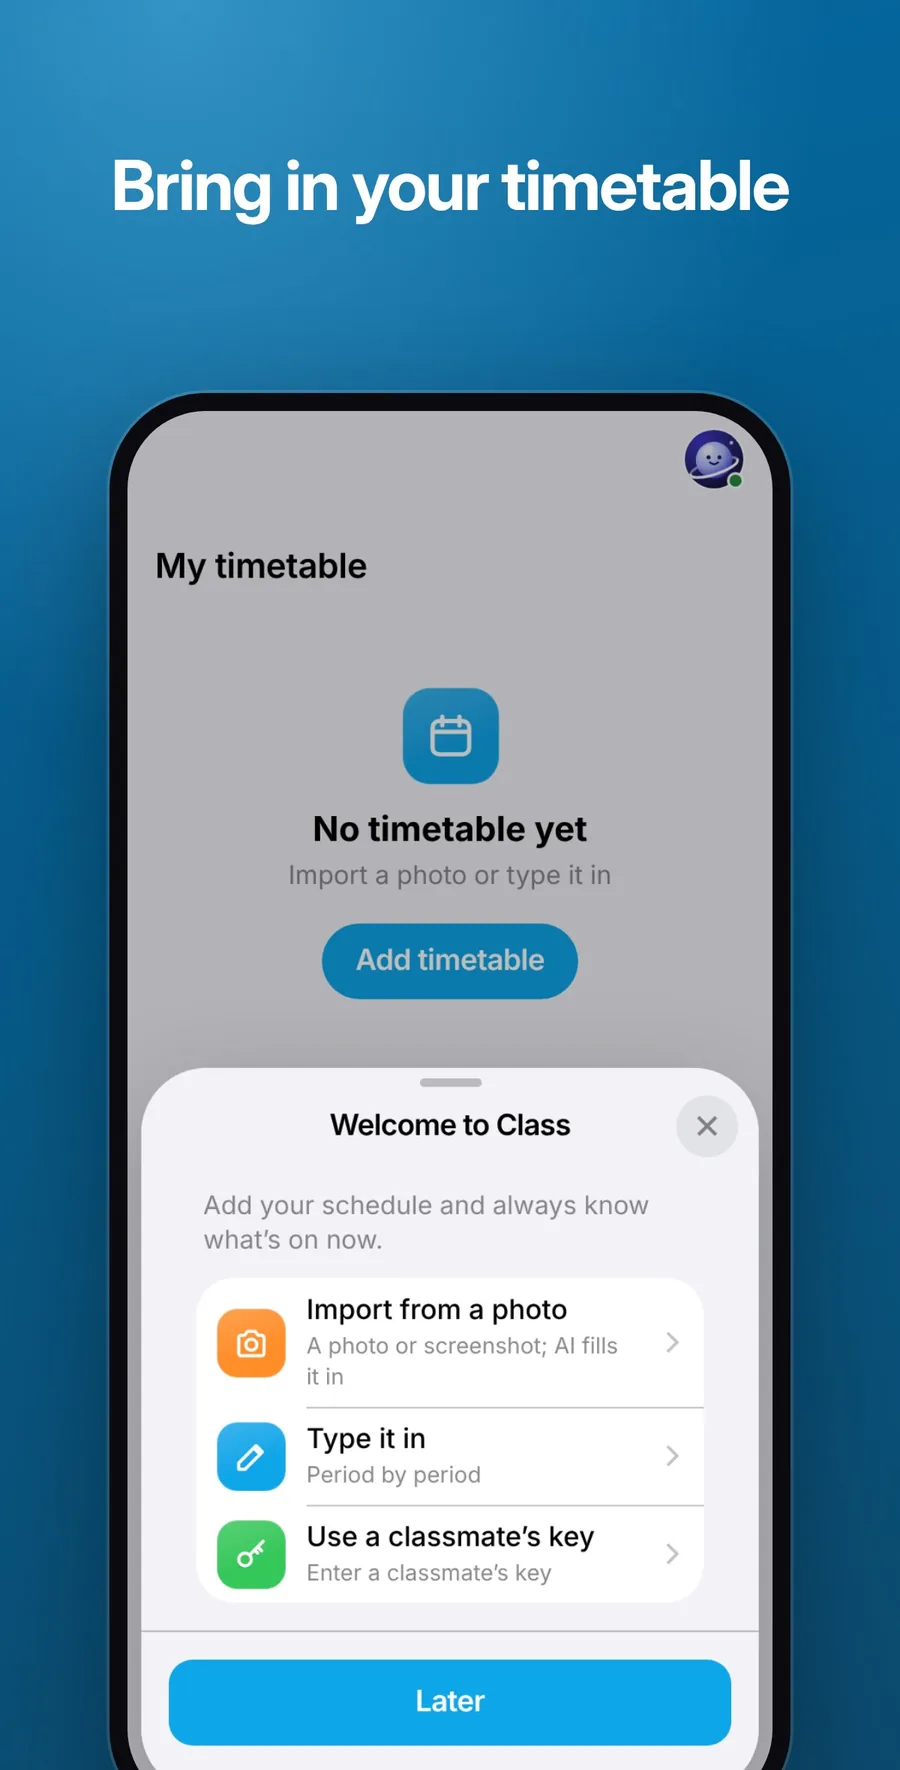
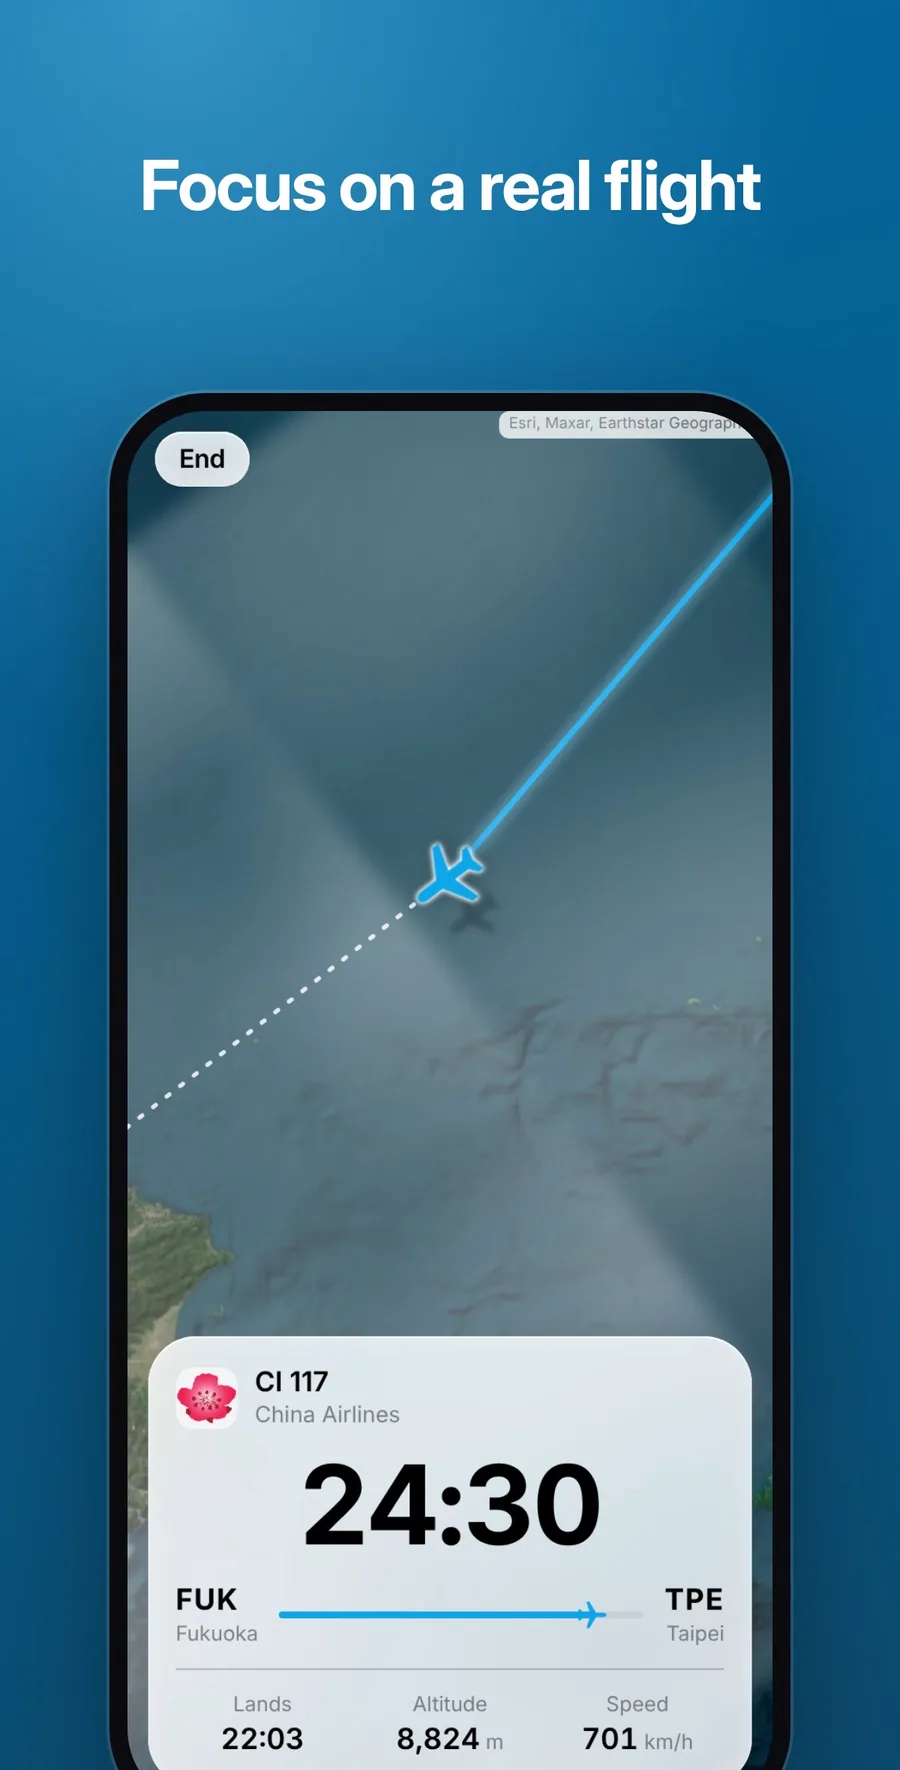
README: 專注飛行, the focus timer on a real plane, as a feature and screenshot 5 (Focus on a real flight, in place of the welcome sheet); every screen either way up
Claude-Session: https://claude.ai/code/session_01DckgWPaY9FmezbgW5QNwpK

diff --git a/README.md b/README.md
@@ -13,7 +13,7 @@
   <img alt="JavaScript" src="https://img.shields.io/badge/JavaScript-ES_modules-F7DF1E?logo=javascript&logoColor=000"> <img alt="Vite" src="https://img.shields.io/badge/Vite-build-646CFF?logo=vite&logoColor=fff"> <img alt="PWA" src="https://img.shields.io/badge/PWA-works_offline-5A0FC8?logo=pwa&logoColor=fff"> <img alt="Cloudflare" src="https://img.shields.io/badge/Cloudflare-Workers-F38020?logo=cloudflare&logoColor=fff"> <img alt="Tests" src="https://img.shields.io/badge/Tests-Vitest-6E9F18?logo=vitest&logoColor=fff">
 </p>
 
-The class now and what comes next, at a glance. Part of **Orbit**, a family of phone apps for life in Taiwan that share one sign-in, the Orbit Pass. See them all at [orbit.jaypengx.com](https://orbit.jaypengx.com/pass/).
+The class now and what comes next, at a glance. Part of **Orbit**, a family of apps for life in Taiwan that share one sign-in, the Orbit Pass. See them all at [orbit.jaypengx.com](https://orbit.jaypengx.com/pass/).
 
 <p align="center">
   <img src="docs/screenshots/class-1.webp" width="30%" alt="Your whole week">
@@ -23,7 +23,7 @@ The class now and what comes next, at a glance. Part of **Orbit**, a family of p
 
 <p align="center">
   <img src="docs/screenshots/class-4.webp" width="30%" alt="Count down to the big exam">
-  <img src="docs/screenshots/class-5.webp" width="30%" alt="Bring in your timetable">
+  <img src="docs/screenshots/class-5.webp" width="30%" alt="Focus on a real flight">
   <img src="docs/screenshots/class-6.webp" width="30%" alt="Snap it, AI reads it">
 </p>
 
@@ -34,9 +34,11 @@ The class now and what comes next, at a glance. Part of **Orbit**, a family of p
 - **調課:** swap two periods on any two dates, even across weeks, and undo it.
 - **Countdowns** to exams and events, removed by themselves once over if you like.
 - **A notice five minutes before each class**, sent by the server so it arrives with the app closed; none on Taiwan's holidays.
+- **專注飛行 (focus flight):** a focus timer that follows a real plane in the air. Pick 25, 50 or 90 minutes (or 10 to 180) and one of up to six flights that land about when your time is up; the screen is that plane gliding over a live satellite map, with clouds below and the time left, and a notice when it lands.
 - **AI photo import:** up to six photos, screenshots, HEIC or PDF read together as one timetable, checked locally and applied only once you confirm.
 - **AI edit:** describe a change in a sentence and confirm it as a diff.
 - **Share key:** an 8-character key gives a classmate their own copy for 24 hours.
+- **Every screen, either way up:** on a tablet, a computer or a phone on its side 今天's card runs across the top with the day's classes beside the countdowns, 課表 shows both weeks side by side, and 專注飛行's card sits beside the map.
 
 ## Tech stack
 
@@ -44,7 +46,7 @@ The class now and what comes next, at a glance. Part of **Orbit**, a family of p
 | --- | --- |
 | App | Plain JavaScript (ES modules), HTML and CSS, bundled by Vite; no framework |
 | Platform | Installable web app with a service worker; opens offline on the kept timetable |
-| Shared | Look, Orbit Pass (which keeps the timetable) and notices from the kit in [Orbit-Core](https://github.com/JayPengX/Orbit-Core) |
+| Shared | Look, Orbit Pass (which keeps the timetable), notices and the planes in the air (proxy `/flight`) from the kit in [Orbit-Core](https://github.com/JayPengX/Orbit-Core) |
 | AI | Gemini through the Orbit proxy (`/gemini`, `/nl-edit`); the prompts and schemas live in the Worker, so the endpoint can't be used as a general AI |
 | Tests | Vitest with jsdom, ESLint |
 
@@ -69,6 +71,7 @@ src/
 ├── editor-*.js                   the editor, backups, AI editing
 ├── gemini-ocr.js                 photo import
 ├── swap.js, tools.js, sync.js    調課, the tools tab, the Pass
+├── flight*.js                    專注飛行, the focus timer on a real plane
 └── state.js, constants.js, strings.js, dates.js
 public/                 icons, manifest, service worker
 test/                   Vitest
